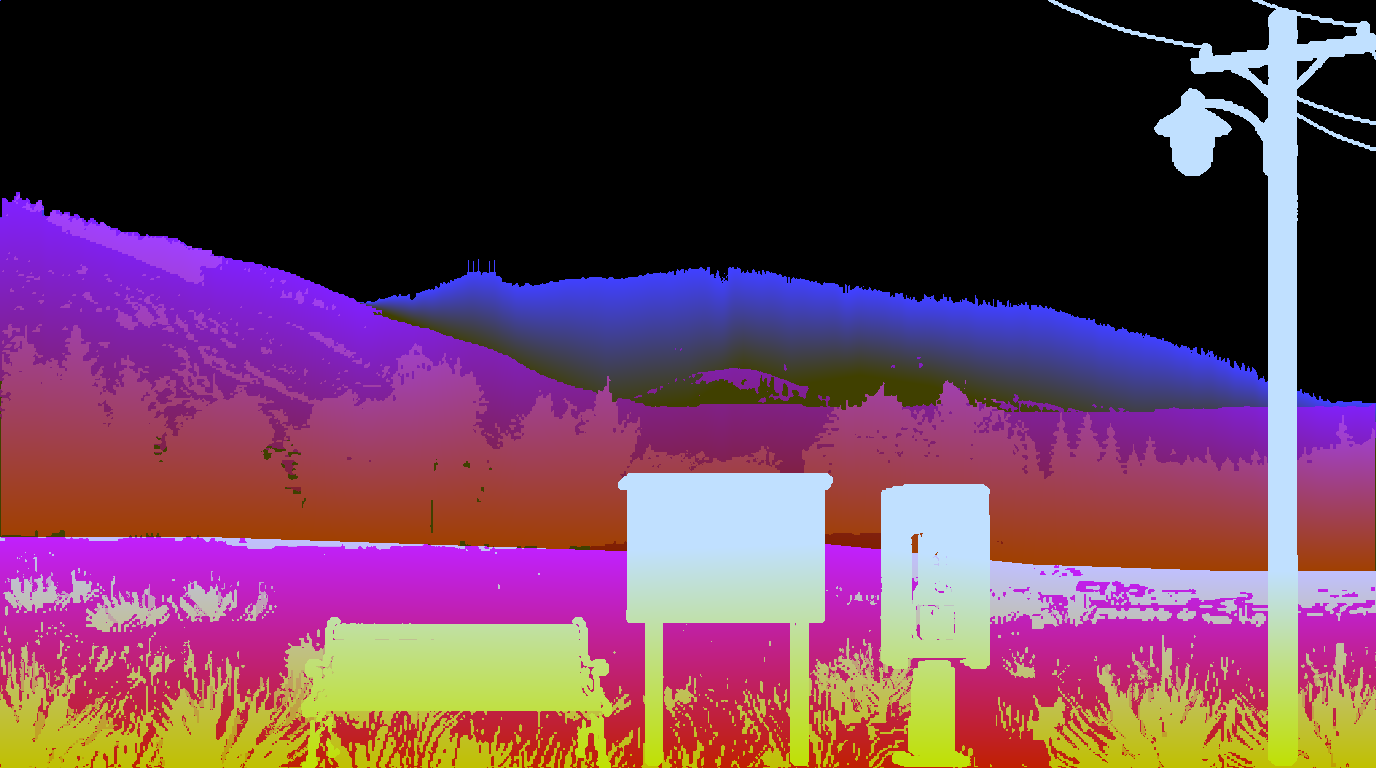
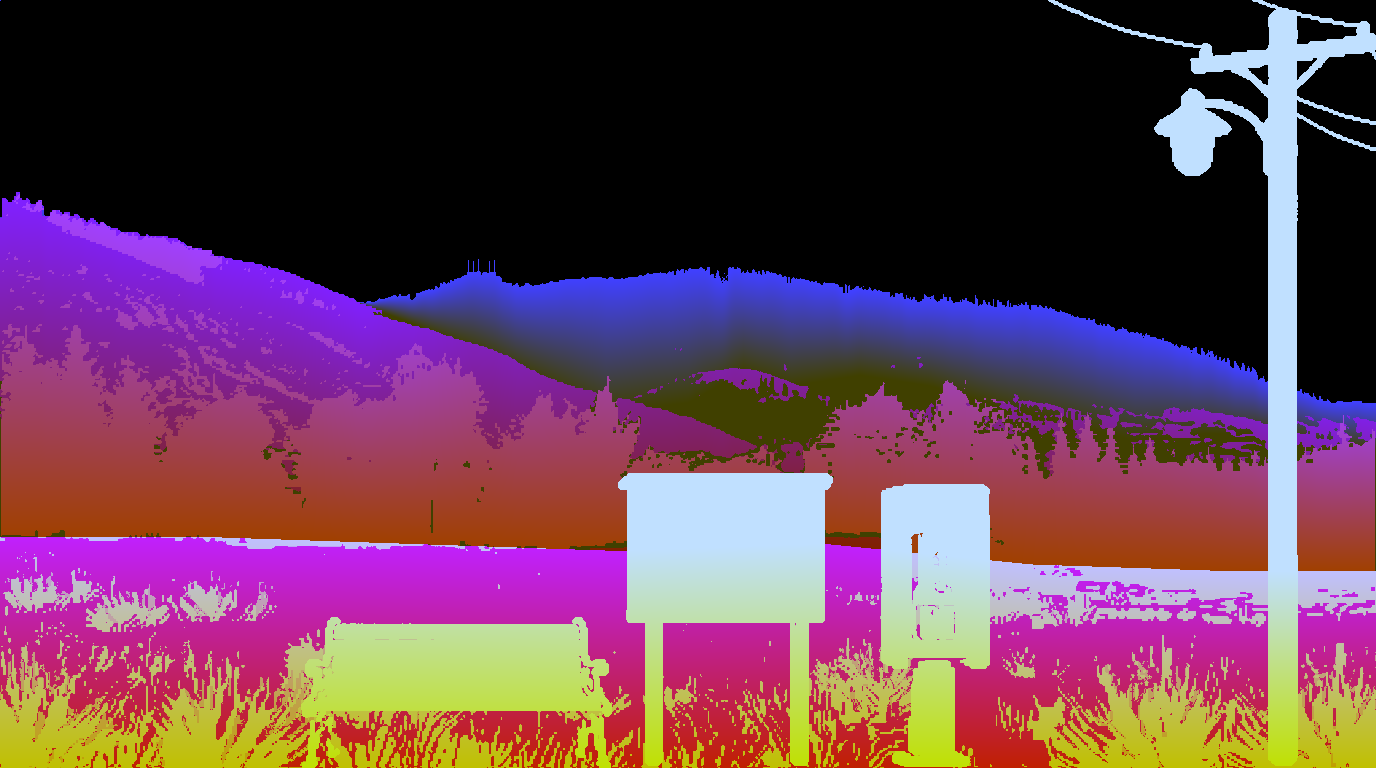
The Sentinel export's tan slope no longer runs across the foot of Dean Stone: front_erase_tan rectangles in the config key the front painting's flat tan field to transparent so the back painting's foothills show (the trees in them stay); the tan ridge right of the trees comes off the open items

Changed region(s): [[0.4375, 0.5, 1.0, 0.625], [0.5938, 0.6875, 0.625, 0.7188], [0.4375, 0.6875, 0.4688, 0.7188]]

diff --git a/tools/build_backdrop.py b/tools/build_backdrop.py
@@ -219,6 +219,17 @@ def main():
             if hh < H: out[hh:] = out[hh - 1:hh]
             return out
         fr = fit(fr); front = fit(alpha)
+        # the front's flat far field (front_erase_tan, rectangles in ref coordinates): the Sentinel
+        # export ran its slope across the whole frame as a tan band over the foot of Dean Stone,
+        # which the user never wanted (2026-10-12); tan pixels in these rectangles go transparent
+        # so the back painting's foothills show, and the trees in them, green or dark, stay
+        if cfg.get('front_erase_tan'):
+            ftan, fgreen, fdark, fnavy = classify(fr)
+            for x0, y0, x1, y1 in rects(cfg['front_erase_tan']):
+                box = np.zeros((H, W), bool); box[y0:y1, x0:x1] = True
+                erased = box & front & majority(ftan & ~fgreen & ~fdark, 1)
+                front[erased] = False
+                print(f'front field erased: {int(erased.sum())} px in ({x0}, {y0})..({x1}, {y1})')
         rgb = rgb.copy(); rgb[front] = fr[front]
         bare_np = bare_np.copy(); bare_np[front] = fr[front]
 

diff --git a/CLAUDE.md b/CLAUDE.md
@@ -32,7 +32,7 @@ Three rules that override everything else:
 
 **The scene is the user's painting, re-lit.** The canvas is the size of the art (phones and screens under 1100 CSS px wide get the half-size copy in `assets/small/`, written by the same build; `?small` / `?full` override; `SMALL` in `state.js`, passed to the worker through its URL). `assets/backdrop.json` (read by `src/state.js` as `META` at load) carries the size, horizon, hotspots, cork rectangle, lantern position, camera targets, fog lines, snow caps, and default notes, so the JS holds no art-specific numbers. `assets/backdrop.png` is the painting at native pixels with the sky masked out and the painted notes cleared off the cork; `assets/backdrop_mask.png` carries per pixel a depth layer (R: sky, peak, range, far hill, flank, trees, near), a material (G: grass, foliage, rock, snow, dirt, shrub, prop), and a height fraction within the layer (B). The layer and material codes are stored 32 apart in the PNG and snapped back on load: some browsers (Android Chrome among them) color-manage a PNG on its way into a canvas and shift values by a unit, which once turned every mask code into garbage on phones and one desktop. Sky pixels stay transparent so the procedural sky shows through.
 
-**Paintings and configs.** Each painting has `art/NAME.json`; `art/current` names the one in use (currently `layered`). A config names the files (`art`, the prop-less `bare`, optionally `props_only` on black and `props_from` to copy prop pixels from another painting of the same scene, optionally a `front` painting layered over the back with its checkerboard "transparency" keyed out and pixel-doubled if it came at half size), the traced silhouettes (`skyline`, `peak`, `far_mid`, `meadow`), prop boxes, material flags (`far_is_forest`, `scan_simple`, `haze_scale`), and everything that ends up in `backdrop.json`. Coordinates are in the config's `ref` size; a painting that is an exact multiple of it scales automatically, one a few pixels off is snapped. Silhouette traces were partly measured and partly hand-placed; when a new painting arrives, re-measure rather than reuse.
+**Paintings and configs.** Each painting has `art/NAME.json`; `art/current` names the one in use (currently `layered`). A config names the files (`art`, the prop-less `bare`, optionally `props_only` on black and `props_from` to copy prop pixels from another painting of the same scene, optionally a `front` painting layered over the back with its checkerboard "transparency" keyed out and pixel-doubled if it came at half size, and `front_erase_tan` rectangles where the front's tan pixels go transparent: the Sentinel export's slope ran across the frame as a flat band over the foot of Dean Stone, and keying it out shows the back painting's foothills; the user never wanted that band, 2026-10-12), the traced silhouettes (`skyline`, `peak`, `far_mid`, `meadow`), prop boxes, material flags (`far_is_forest`, `scan_simple`, `haze_scale`), and everything that ends up in `backdrop.json`. Coordinates are in the config's `ref` size; a painting that is an exact multiple of it scales automatically, one a few pixels off is snapped. Silhouette traces were partly measured and partly hand-placed; when a new painting arrives, re-measure rather than reuse.
 
 **Terrain re-lighting** (`src/render/terrain.js`, per pixel): seasonal grass tint relative to the painting's September (plus `env.greenup`, 0..1 from `weather.js`: liquid rain over the past week, counted from half a day after it fell, times how warm the last two days were, pulls the grass tone partway back toward June's, capped at `GREENUP_MAX`; a cold-front rain greens nothing until the warm days after it; the user's call, 2026-10-11: the mountain greens back up some with a little rain if it is warm enough), snow by height fraction per layer (the painted summit snow counts as a June amount; July through October recolor it as rock), the overnight dusting from each plane's depth table (thin where it is thinning, the edge fuzzed by noise), rain darkening, aerial perspective toward the sky's horizon color, then the light:
 
@@ -72,7 +72,7 @@ Three rules that override everything else:
 
 ## Open items
 
-The Denver punch list and backlog in README.md. Still open: the second domain's redirect and retiring GitHub Pages (`docs/deploy.md` sections 4 and 5), the tan ridge right of the trees (needs a re-export of the Sentinel painting, not code), the open-topped trash can with critters, a real mobile landscape layout, and the seasonal tree work (the valley trees can be classified deciduous from the painting; larch on Dean Stone need a repaint).
+The Denver punch list and backlog in README.md. Still open: the second domain's redirect and retiring GitHub Pages (`docs/deploy.md` sections 4 and 5), the open-topped trash can with critters, a real mobile landscape layout, and the seasonal tree work (the valley trees can be classified deciduous from the painting; larch on Dean Stone need a repaint).
 
 ## Roadmap (not built yet)
 
